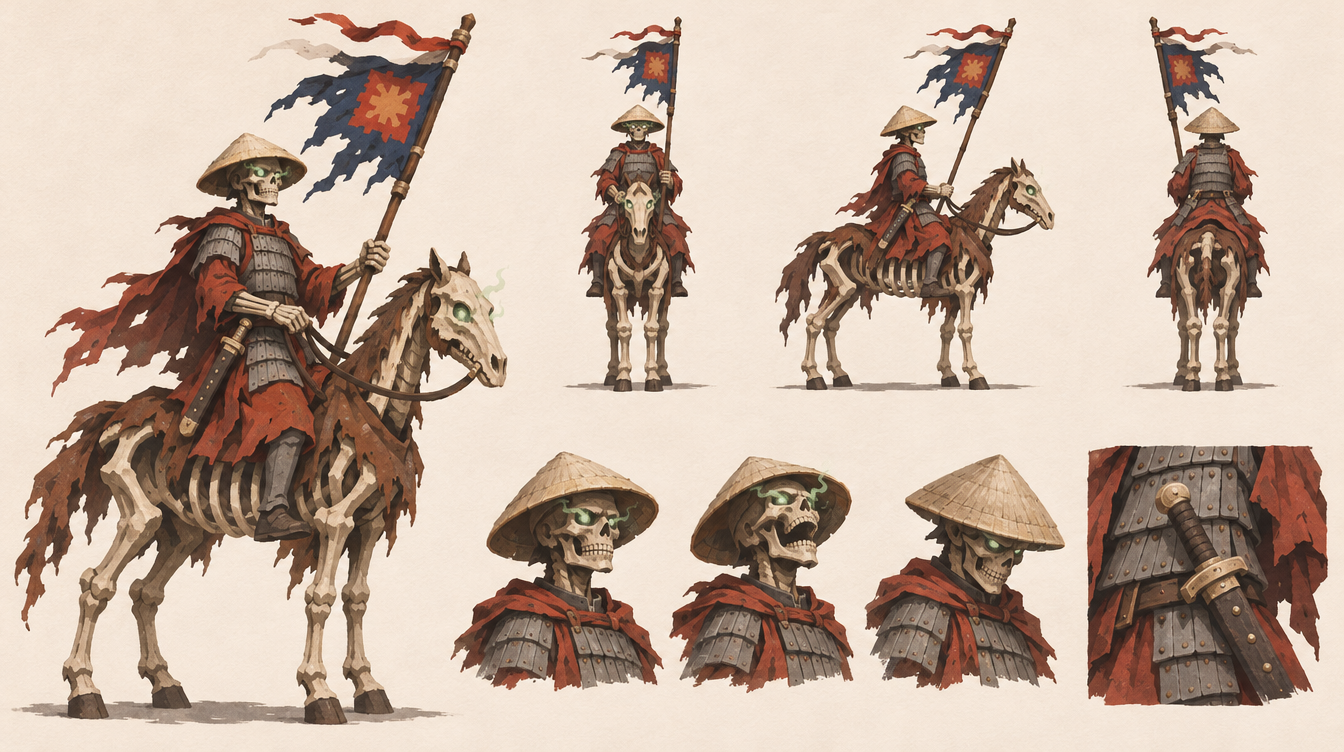
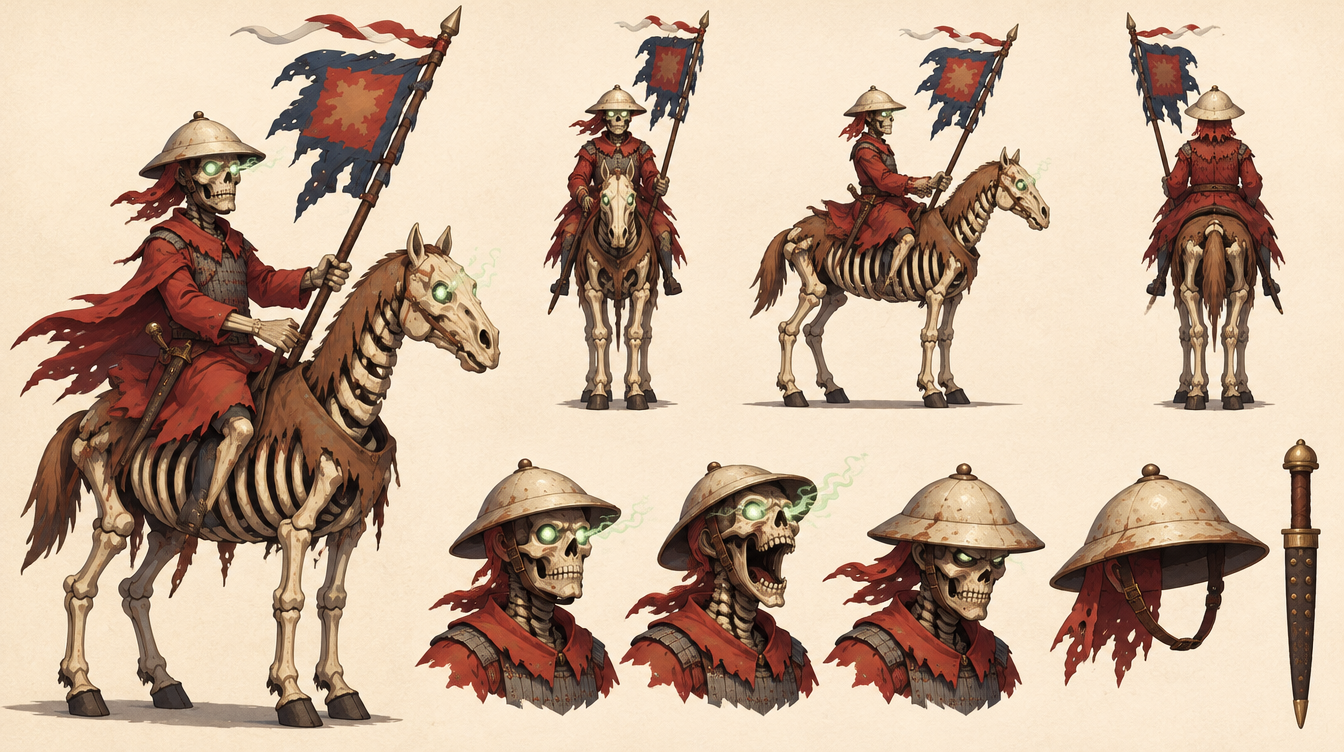
Sửa sheet âm binh người: nón trận cho kỵ binh, ống tên và vỏ kiếm là vật cứng
Claude-Session: https://claude.ai/code/session_01JLSNBEZAQYaaf5bHkUdgrp

diff --git a/docs/art/character-sheets.md b/docs/art/character-sheets.md
@@ -81,6 +81,10 @@ a medieval East Asian militia spearman, clean-shaven, black cloth cap, grey padd
 a Vietnamese medieval heavy infantryman, small mustache, steel helmet with a red plume and a gilded brow ornament, grey layered steel lamellar armor (small vertical plates laced in staggered rows) with brown trim and layered shoulder guards, dark red under-robe, yellow-and-black patterned sash at the waist, black boots, wielding a long two-handed straight sword (truong kiem) held across the body, with a short dirk in a brown studded scabbard at the left hip, accent color: red plume and dark red robe,
 ```
 
+**Quy tắc vật cứng (mọi sheet có đồ đeo):** ống tên, vỏ kiếm, chuôi kiếm là vật cứng có hình dạng cố định, không được cong hay ôm theo dáng người. Thêm vào prompt: `RIGID OBJECTS RULE: the scabbard is a perfectly straight tapered rigid case angled slightly away from the body, the hilt is a straight rod, the quiver is a stiffened rigid straight tapered tube hanging from a strap and standing off the hip, not a soft bag; none of them bend, curve or wrap around the hip, thigh or torso`.
+
+**Mũ kỵ binh người** là *nón trận* (mũ chiến cứng, vành rộng phẳng, núm tròn trên đỉnh, quai cằm, tấm vải đỏ che gáy), không phải nón lá đan.
+
 **Lưu ý giải phẫu và tỉ lệ (kiểm khi duyệt ảnh, mọi sheet):** tai đối xứng bằng nhau, đủ hai tay hai chân, năm ngón mỗi bàn tay, vũ khí đúng tỉ lệ cơ thể. Lỗi đã gặp: tai một dài một ngắn (do prompt tả "một tai dài" theo sprite nhìn nghiêng, phải viết `two pointed ears of exactly equal size`), cung quá nhỏ như đồ chơi, ống tên quá ngắn.
 
 **Cung thủ** (`human_archer.png`)
@@ -90,7 +94,7 @@ a medieval East Asian foot archer, clean-shaven, short black hair, plain brown c
 
 **Kỵ binh** (`human_cavalry.png`)
 ```
-a Vietnamese medieval banner cavalryman, small round pale straw helmet-hat, grey layered steel lamellar armor (small vertical plates laced in staggered rows) under a red-orange riding tunic and red cape, holding a tall blue war banner with a red-orange emblem and a white tail ribbon, a sword worn at the left hip in a dark brown studded scabbard, riding a chestnut-brown horse with simple dark tack, accent color: blue banner against red tunic,
+a Vietnamese medieval banner cavalryman, a rigid war helmet (non tran): smooth hard domed pale-metal helmet with a wide flat sloped brim, a small round finial on top, a chin strap and a red cloth neck flap (NOT woven straw, NOT a conical rice-paddy hat), grey layered steel lamellar armor (small vertical plates laced in staggered rows) under a red-orange riding tunic and red cape, holding a tall blue war banner with a red-orange emblem and a white tail ribbon, a sword worn at the left hip in a dark brown studded scabbard, riding a chestnut-brown horse with simple dark tack, accent color: blue banner against red tunic,
 ```
 
 **Thủy binh** (`human_marine.png`, `human_marineboat.png`)
@@ -166,3 +170,5 @@ Character model sheet of the archer shown in the reference pixel sprite, redrawn
 - Âm binh gốc orc: `undead_orc_{militia,infantry,archer,cavalry}`
 
 Ghi chú còn lại: `marine_human` cận cảnh cầm cọc/chèo thay vì cung; `undead_human_archer` ống tên đeo hông hơi ngắn.
+
+Đã chạy lại theo quy tắc vật cứng + nón trận: `undead_human_cavalry` (thay bản cũ), `undead_human_archer` (thay bản cũ), `undead_human_infantry_v2` (bản phụ; bản gốc `undead_human_infantry` giáp lá rõ hơn nhưng vỏ kiếm hơi ôm hông).
